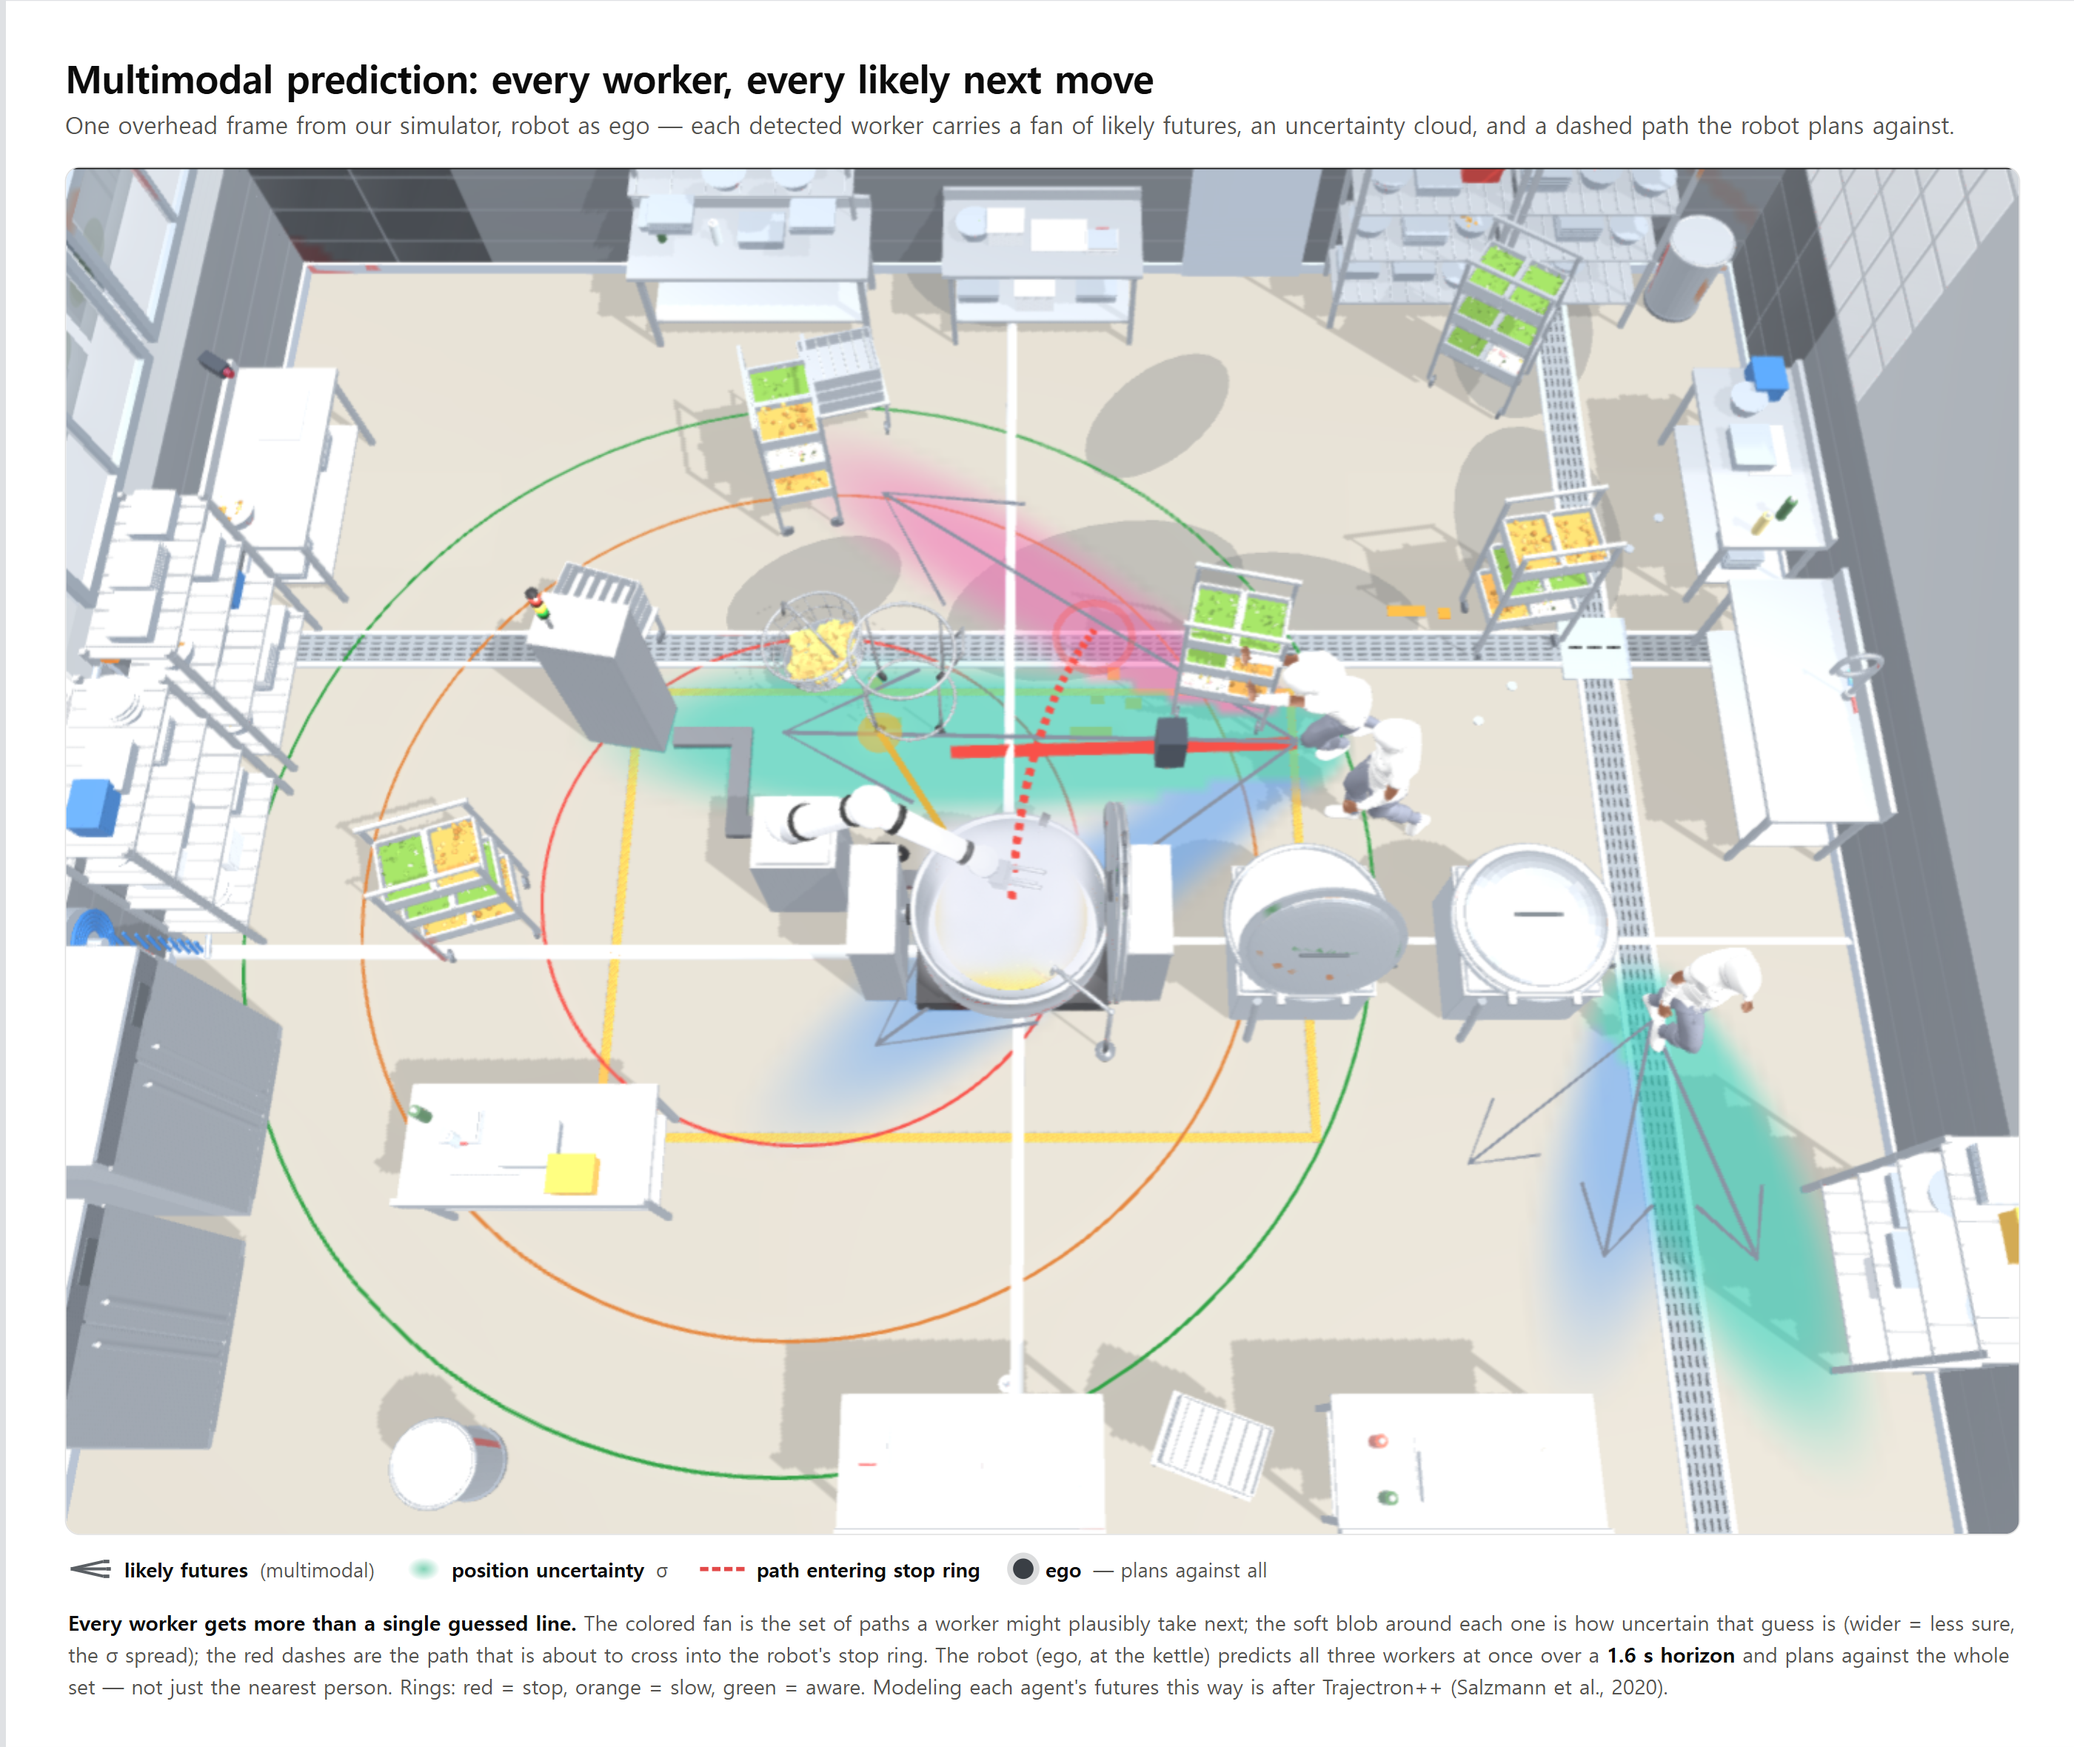
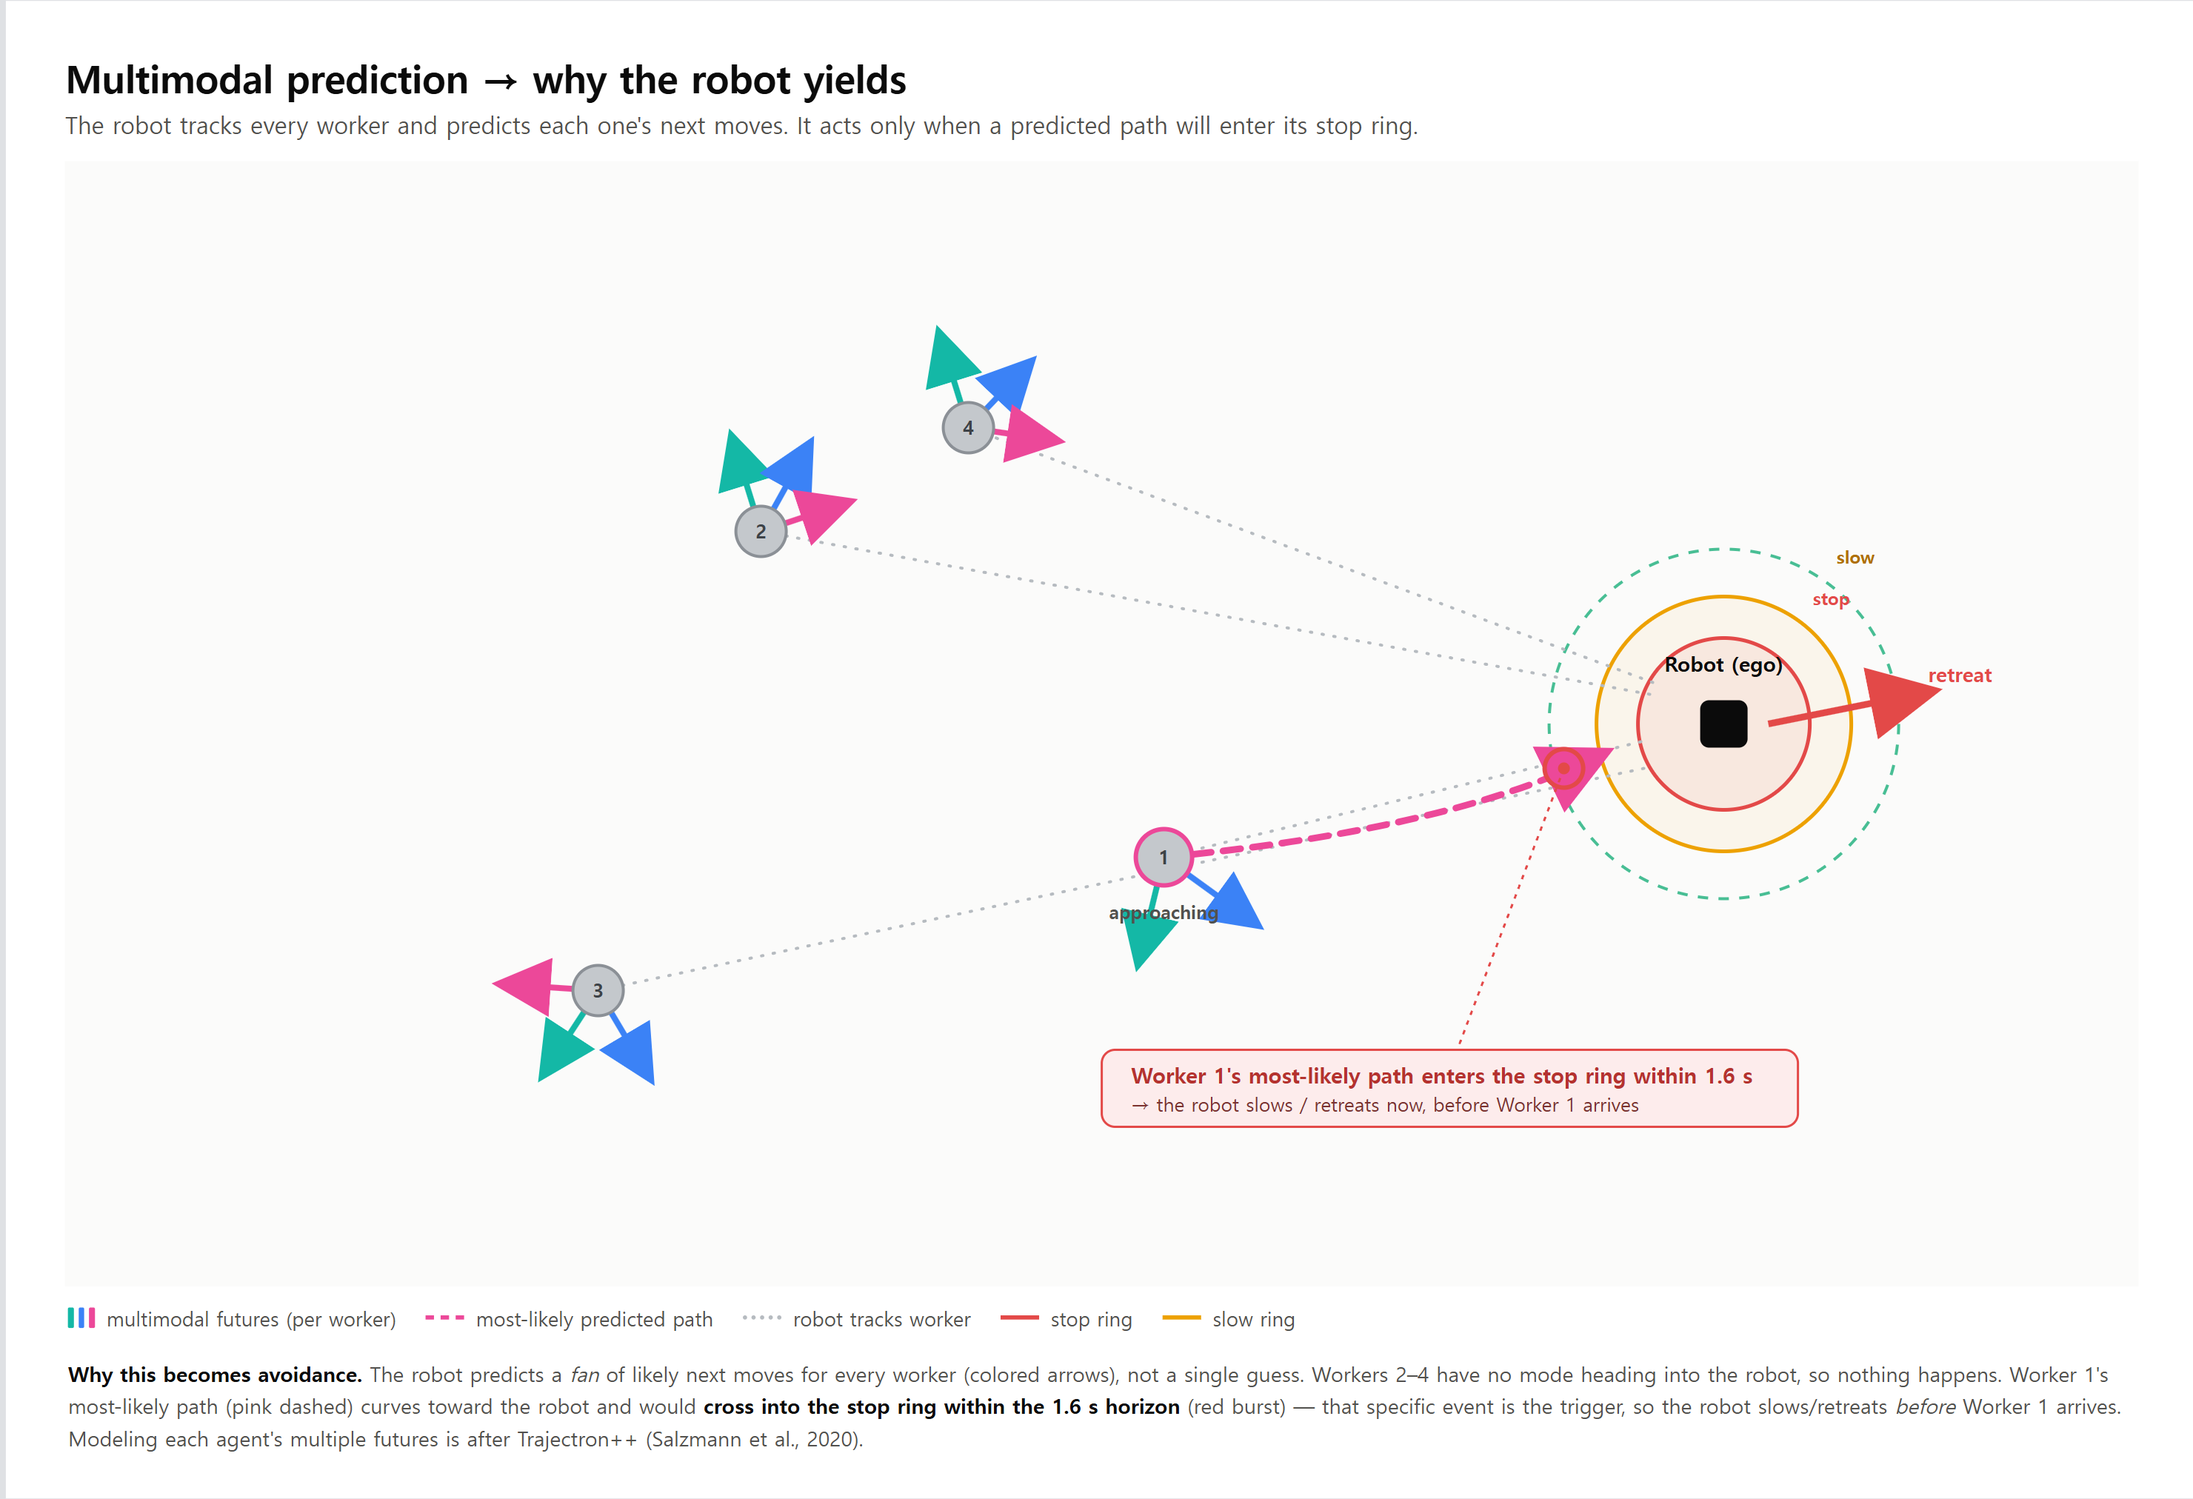
docs: fig12 재작업 — 깨끗한 멀티모달 예측 도식(왜 회피인지 명시)
산만한 sim 오버레이 캡처를 버리고 SVG 도식으로 교체: 사람별 멀티모달 화살표(부채꼴),
로봇(ego) 주목선, Worker1의 최빈 예측경로만 정지링 진입(빨간 버스트)→로봇 후퇴.
Trajectron++ 티저 스타일. 미사용 src_predviz.png 제거.

diff --git a/docs/chanwoo/assets/pipeline/fig12.html b/docs/chanwoo/assets/pipeline/fig12.html
@@ -1,46 +1,128 @@
 <!doctype html><html lang="en"><head><meta charset="utf-8"><title>Multimodal prediction</title>
 <style>
- :root{--ink:#0b0b0b;--ink2:#52514e;--muted:#898781;--red:#e34948;--font:system-ui,-apple-system,"Segoe UI",sans-serif;
-   --blob:#1baf7a;--arrow:#5a5f64}
+ :root{--ink:#0b0b0b;--ink2:#52514e;--muted:#898781;--font:system-ui,-apple-system,"Segoe UI",sans-serif;
+   --teal:#14b8a6;--blue:#3b82f6;--pink:#ec4899;--stop:#e34948;--slow:#eda100;--aware:#1baf7a;--node:#c4c8cc;--nodek:#8b9096;}
  *{box-sizing:border-box} body{margin:0;background:#dfe1e4;font-family:var(--font);color:var(--ink)}
- #fig12{width:1400px;background:#fff;margin:32px auto;padding:34px 40px 30px}
+ #fig12{width:1480px;background:#fff;margin:32px auto;padding:34px 40px 30px}
  .figtitle{font-size:26px;font-weight:750;letter-spacing:-.01em;margin:0 0 4px}
- .figsub{font-size:16px;color:var(--ink2);margin:0 0 18px;font-weight:450}
- .well{width:100%;aspect-ratio:1379/965;border:1px solid rgba(11,11,11,.12);border-radius:10px;overflow:hidden}
- .well img{width:100%;height:100%;object-fit:cover;display:block}
- .legend{display:flex;flex-wrap:wrap;gap:22px;font-size:13.5px;color:var(--ink2);margin:14px 2px 2px}
+ .figsub{font-size:16px;color:var(--ink2);margin:0 0 14px;font-weight:450}
+ .legend{display:flex;flex-wrap:wrap;gap:20px;font-size:13.5px;color:var(--ink2);margin:12px 2px 0}
  .k{display:inline-flex;align-items:center;gap:8px}
- .k b{color:var(--ink);font-weight:650}
- .sw-arrow{width:30px;height:14px;display:inline-block;flex:none}
- .sw-blob{width:22px;height:16px;border-radius:50%;flex:none;
-   background:radial-gradient(closest-side,rgba(27,175,122,.55),rgba(27,175,122,0))}
- .sw-dash{width:30px;height:0;border-top:3px dashed var(--red);display:inline-block;flex:none}
- .sw-dot{width:14px;height:14px;border-radius:50%;background:#3a3f45;flex:none;
-   box-shadow:0 0 0 4px rgba(58,63,69,.18)}
- .figcap{font-size:14px;color:var(--ink2);line-height:1.55;margin:16px 2px 0;max-width:1320px}
+ .sw{width:26px;height:0;border-top-width:3px;border-top-style:solid;display:inline-block}
+ .fank{display:inline-flex;gap:3px}.fank i{width:4px;height:14px;display:inline-block;border-radius:1px}
+ .figcap{font-size:14px;color:var(--ink2);line-height:1.55;margin:18px 2px 0;max-width:1400px}
  .figcap b{color:var(--ink);font-weight:650}
+ svg{display:block;width:100%;height:auto}
+ text{font-family:var(--font)}
 </style></head><body>
 <section id="fig12">
- <h2 class="figtitle">Multimodal prediction: every worker, every likely next move</h2>
- <p class="figsub">One overhead frame from our simulator, robot as ego &mdash; each detected worker carries a fan of likely futures, an uncertainty cloud, and a dashed path the robot plans against.</p>
+ <h2 class="figtitle">Multimodal prediction &rarr; why the robot yields</h2>
+ <p class="figsub">The robot tracks every worker and predicts each one's next moves. It acts only when a predicted path will enter its stop ring.</p>
 
- <div class="well"><img src="src_predviz.png" alt="Multimodal prediction overlays over the overhead kitchen scene"></div>
+ <svg viewBox="0 0 1400 760" role="img" aria-label="Multimodal prediction schematic">
+  <defs>
+    <marker id="aPink" markerWidth="10" markerHeight="10" refX="7" refY="5" orient="auto"><path d="M0,0 L10,5 L0,10 z" fill="var(--pink)"/></marker>
+    <marker id="aBlue" markerWidth="10" markerHeight="10" refX="7" refY="5" orient="auto"><path d="M0,0 L10,5 L0,10 z" fill="var(--blue)"/></marker>
+    <marker id="aTeal" markerWidth="10" markerHeight="10" refX="7" refY="5" orient="auto"><path d="M0,0 L10,5 L0,10 z" fill="var(--teal)"/></marker>
+    <marker id="aPathPink" markerWidth="11" markerHeight="11" refX="7" refY="5.5" orient="auto"><path d="M0,0 L11,5.5 L0,11 z" fill="var(--pink)"/></marker>
+    <marker id="aRetreat" markerWidth="11" markerHeight="11" refX="7" refY="5.5" orient="auto"><path d="M0,0 L11,5.5 L0,11 z" fill="var(--stop)"/></marker>
+  </defs>
+
+  <rect x="0" y="0" width="1400" height="760" fill="#fbfbfa"/>
+
+  <!-- ROBOT (ego) + safety rings, right side -->
+  <g>
+    <circle cx="1120" cy="380" r="118" fill="none" stroke="var(--aware)" stroke-width="2" stroke-dasharray="7 7" opacity="0.8"/>
+    <circle cx="1120" cy="380" r="86"  fill="#eda1000f" stroke="var(--slow)" stroke-width="2.5"/>
+    <circle cx="1120" cy="380" r="58"  fill="#e3494814" stroke="var(--stop)" stroke-width="2.5"/>
+    <rect x="1104" y="364" width="32" height="32" rx="6" fill="#0b0b0b"/>
+    <text x="1120" y="345" text-anchor="middle" font-size="14" font-weight="800" fill="#0b0b0b">Robot (ego)</text>
+    <text x="1180" y="300" font-size="12" font-weight="700" fill="var(--stop)">stop</text>
+    <text x="1196" y="272" font-size="12" font-weight="700" fill="#b06f00">slow</text>
+  </g>
+
+  <!-- attention: robot tracks all workers (dotted grey) -->
+  <g stroke="#b6bbc0" stroke-width="2" stroke-dasharray="1 7" stroke-linecap="round" fill="none">
+    <line x1="1064" y1="392" x2="742" y2="470"/>
+    <line x1="1070" y1="360" x2="470" y2="250"/>
+    <line x1="1066" y1="410" x2="360" y2="560"/>
+    <line x1="1072" y1="352" x2="610" y2="180"/>
+  </g>
+
+  <!-- ============ WORKERS with multimodal fans ============ -->
+  <!-- helper: each worker = grey node + 3 short colored arrows (teal/blue/pink) -->
+
+  <!-- W2 (top-left) -->
+  <g>
+    <line x1="470" y1="250" x2="452" y2="192" stroke="var(--teal)" stroke-width="4" marker-end="url(#aTeal)"/>
+    <line x1="470" y1="250" x2="500" y2="196" stroke="var(--blue)" stroke-width="4" marker-end="url(#aBlue)"/>
+    <line x1="470" y1="250" x2="524" y2="232" stroke="var(--pink)" stroke-width="4" marker-end="url(#aPink)"/>
+    <circle cx="470" cy="250" r="17" fill="var(--node)" stroke="var(--nodek)" stroke-width="2"/>
+    <text x="470" y="255" text-anchor="middle" font-size="13" font-weight="800" fill="#3d4247">2</text>
+  </g>
+  <!-- W4 (upper mid) -->
+  <g>
+    <line x1="610" y1="180" x2="592" y2="122" stroke="var(--teal)" stroke-width="4" marker-end="url(#aTeal)"/>
+    <line x1="610" y1="180" x2="648" y2="140" stroke="var(--blue)" stroke-width="4" marker-end="url(#aBlue)"/>
+    <line x1="610" y1="180" x2="664" y2="188" stroke="var(--pink)" stroke-width="4" marker-end="url(#aPink)"/>
+    <circle cx="610" cy="180" r="17" fill="var(--node)" stroke="var(--nodek)" stroke-width="2"/>
+    <text x="610" y="185" text-anchor="middle" font-size="13" font-weight="800" fill="#3d4247">4</text>
+  </g>
+  <!-- W3 (lower-left) -->
+  <g>
+    <line x1="360" y1="560" x2="326" y2="612" stroke="var(--teal)" stroke-width="4" marker-end="url(#aTeal)"/>
+    <line x1="360" y1="560" x2="392" y2="614" stroke="var(--blue)" stroke-width="4" marker-end="url(#aBlue)"/>
+    <line x1="360" y1="560" x2="300" y2="556" stroke="var(--pink)" stroke-width="4" marker-end="url(#aPink)"/>
+    <circle cx="360" cy="560" r="17" fill="var(--node)" stroke="var(--nodek)" stroke-width="2"/>
+    <text x="360" y="565" text-anchor="middle" font-size="13" font-weight="800" fill="#3d4247">3</text>
+  </g>
+
+  <!-- W1 (KEY, approaching robot) — one mode heads into the stop ring -->
+  <!-- multimodal fan: teal & blue stay clear, pink heads toward robot -->
+  <g>
+    <line x1="742" y1="470" x2="726" y2="536" stroke="var(--teal)" stroke-width="4" marker-end="url(#aTeal)"/>
+    <line x1="742" y1="470" x2="800" y2="512" stroke="var(--blue)" stroke-width="4" marker-end="url(#aBlue)"/>
+  </g>
+  <!-- pink most-likely predicted trajectory curving into the stop ring -->
+  <path d="M742,470 Q940,452 1082,398" fill="none" stroke="var(--pink)" stroke-width="4.5"
+        stroke-dasharray="12 8" stroke-linecap="round" marker-end="url(#aPathPink)"/>
+  <!-- entry burst exactly where the path crosses the stop-ring boundary -->
+  <g>
+    <circle cx="1063" cy="404" r="14" fill="none" stroke="var(--stop)" stroke-width="3"/>
+    <circle cx="1063" cy="404" r="4.5" fill="var(--stop)"/>
+  </g>
+  <!-- W1 node on top -->
+  <g>
+    <circle cx="742" cy="470" r="19" fill="var(--node)" stroke="var(--pink)" stroke-width="3"/>
+    <text x="742" y="475" text-anchor="middle" font-size="13" font-weight="800" fill="#3d4247">1</text>
+    <text x="742" y="512" text-anchor="middle" font-size="12.5" font-weight="700" fill="var(--ink2)">approaching</text>
+  </g>
+
+  <!-- callout: enters stop ring -->
+  <g>
+    <path d="M1063,404 L940,600" stroke="var(--stop)" stroke-width="1.5" stroke-dasharray="3 4" fill="none"/>
+    <rect x="700" y="600" width="470" height="52" rx="9" fill="#fdecec" stroke="var(--stop)" stroke-width="1.5"/>
+    <text x="720" y="623" font-size="14.5" font-weight="750" fill="#b5322f">Worker 1's most-likely path enters the stop ring within 1.6 s</text>
+    <text x="720" y="642" font-size="13" fill="#7a3230">&rarr; the robot slows / retreats now, before Worker 1 arrives</text>
+  </g>
+
+  <!-- robot retreat reaction arrow -->
+  <line x1="1150" y1="380" x2="1250" y2="360" stroke="var(--stop)" stroke-width="4.5" marker-end="url(#aRetreat)"/>
+  <text x="1258" y="352" font-size="13.5" font-weight="750" fill="var(--stop)">retreat</text>
+ </svg>
 
  <div class="legend">
-  <span class="k"><svg class="sw-arrow" viewBox="0 0 30 14"><g stroke="var(--arrow)" stroke-width="2" fill="none">
-    <line x1="2" y1="7" x2="24" y2="2"/><line x1="2" y1="7" x2="26" y2="7"/><line x1="2" y1="7" x2="24" y2="12"/>
-    <path d="M24,2 l4,0 M26,7 l3,0 M24,12 l4,0" stroke-width="2.4"/></g></svg><b>likely futures</b> (multimodal)</span>
-  <span class="k"><span class="sw-blob"></span><b>position uncertainty</b> &sigma;</span>
-  <span class="k"><span class="sw-dash"></span><b>path entering stop ring</b></span>
-  <span class="k"><span class="sw-dot"></span><b>ego</b> &mdash; plans against all</span>
+   <span class="k"><span class="fank"><i style="background:var(--teal)"></i><i style="background:var(--blue)"></i><i style="background:var(--pink)"></i></span>multimodal futures (per worker)</span>
+   <span class="k"><span class="sw" style="border-top-color:var(--pink);border-top-style:dashed"></span>most-likely predicted path</span>
+   <span class="k"><span class="sw" style="border-top-color:#b6bbc0;border-top-style:dotted"></span>robot tracks worker</span>
+   <span class="k"><span class="sw" style="border-top-color:var(--stop)"></span>stop ring</span>
+   <span class="k"><span class="sw" style="border-top-color:var(--slow)"></span>slow ring</span>
  </div>
 
- <p class="figcap"><b>Every worker gets more than a single guessed line.</b> The colored fan is the set of paths a worker
- might plausibly take next; the soft blob around each one is how uncertain that guess is (wider&nbsp;=&nbsp;less sure,
- the &sigma; spread); the red dashes are the path that is about to cross into the robot's stop ring. The robot (ego, at
- the kettle) predicts all three workers at once over a <b>1.6&nbsp;s horizon</b> and plans against the whole set &mdash;
- not just the nearest person. Rings: red&nbsp;=&nbsp;stop, orange&nbsp;=&nbsp;slow, green&nbsp;=&nbsp;aware. Modeling each
- agent's futures this way is after Trajectron++ (Salzmann&nbsp;et&nbsp;al., 2020).</p>
+ <p class="figcap"><b>Why this becomes avoidance.</b> The robot predicts a <i>fan</i> of likely next moves for every worker (colored
+ arrows), not a single guess. Workers&nbsp;2&ndash;4 have no mode heading into the robot, so nothing happens. Worker&nbsp;1's
+ most-likely path (pink dashed) curves toward the robot and would <b>cross into the stop ring within the 1.6&nbsp;s horizon</b>
+ (red burst) &mdash; that specific event is the trigger, so the robot slows/retreats <i>before</i> Worker&nbsp;1 arrives. Modeling
+ each agent's multiple futures is after Trajectron++ (Salzmann&nbsp;et&nbsp;al., 2020).</p>
 </section>
-<script>if(location.hash==='#2x'){document.documentElement.style.zoom='2';}</script>
 </body></html>

diff --git a/docs/chanwoo/assets/pipeline/README.md b/docs/chanwoo/assets/pipeline/README.md
@@ -18,7 +18,7 @@
 | `fig9_recall_precision@2x.png` | recall·precision 트레이드 (CV→학습) | "recall 올린 대가(정밀도)는?" (fig3 방어) |
 | `fig10_scene_graph@2x.png` | 씬→상호작용 그래프 (Trajectron++ Fig.1 스타일) | "사람·로봇을 그래프로 모델링" (예측 구조) |
 | `fig11_methodology@2x.png` | 컬러 넘버 5단계 메서드 파이프라인 + 페이즈 브래킷 | 논문식 개요 (fig1 대체/보강용) |
-| `fig12_multimodal_prediction@2x.png` | 멀티모달 예측 티저 (사람별 화살표+불확실성 구름+점선경로) | Trajectron++ 티저 스타일 (실제 sim 오버레이) |
+| `fig12_multimodal_prediction@2x.png` | 멀티모달 예측 도식 (사람별 화살표 부채꼴 + 예측경로가 정지링 진입 → 회피) | Trajectron++ 티저 스타일 (깨끗한 SVG 도식). "왜 회피?"를 명시 |
 
 ## 재현
 
